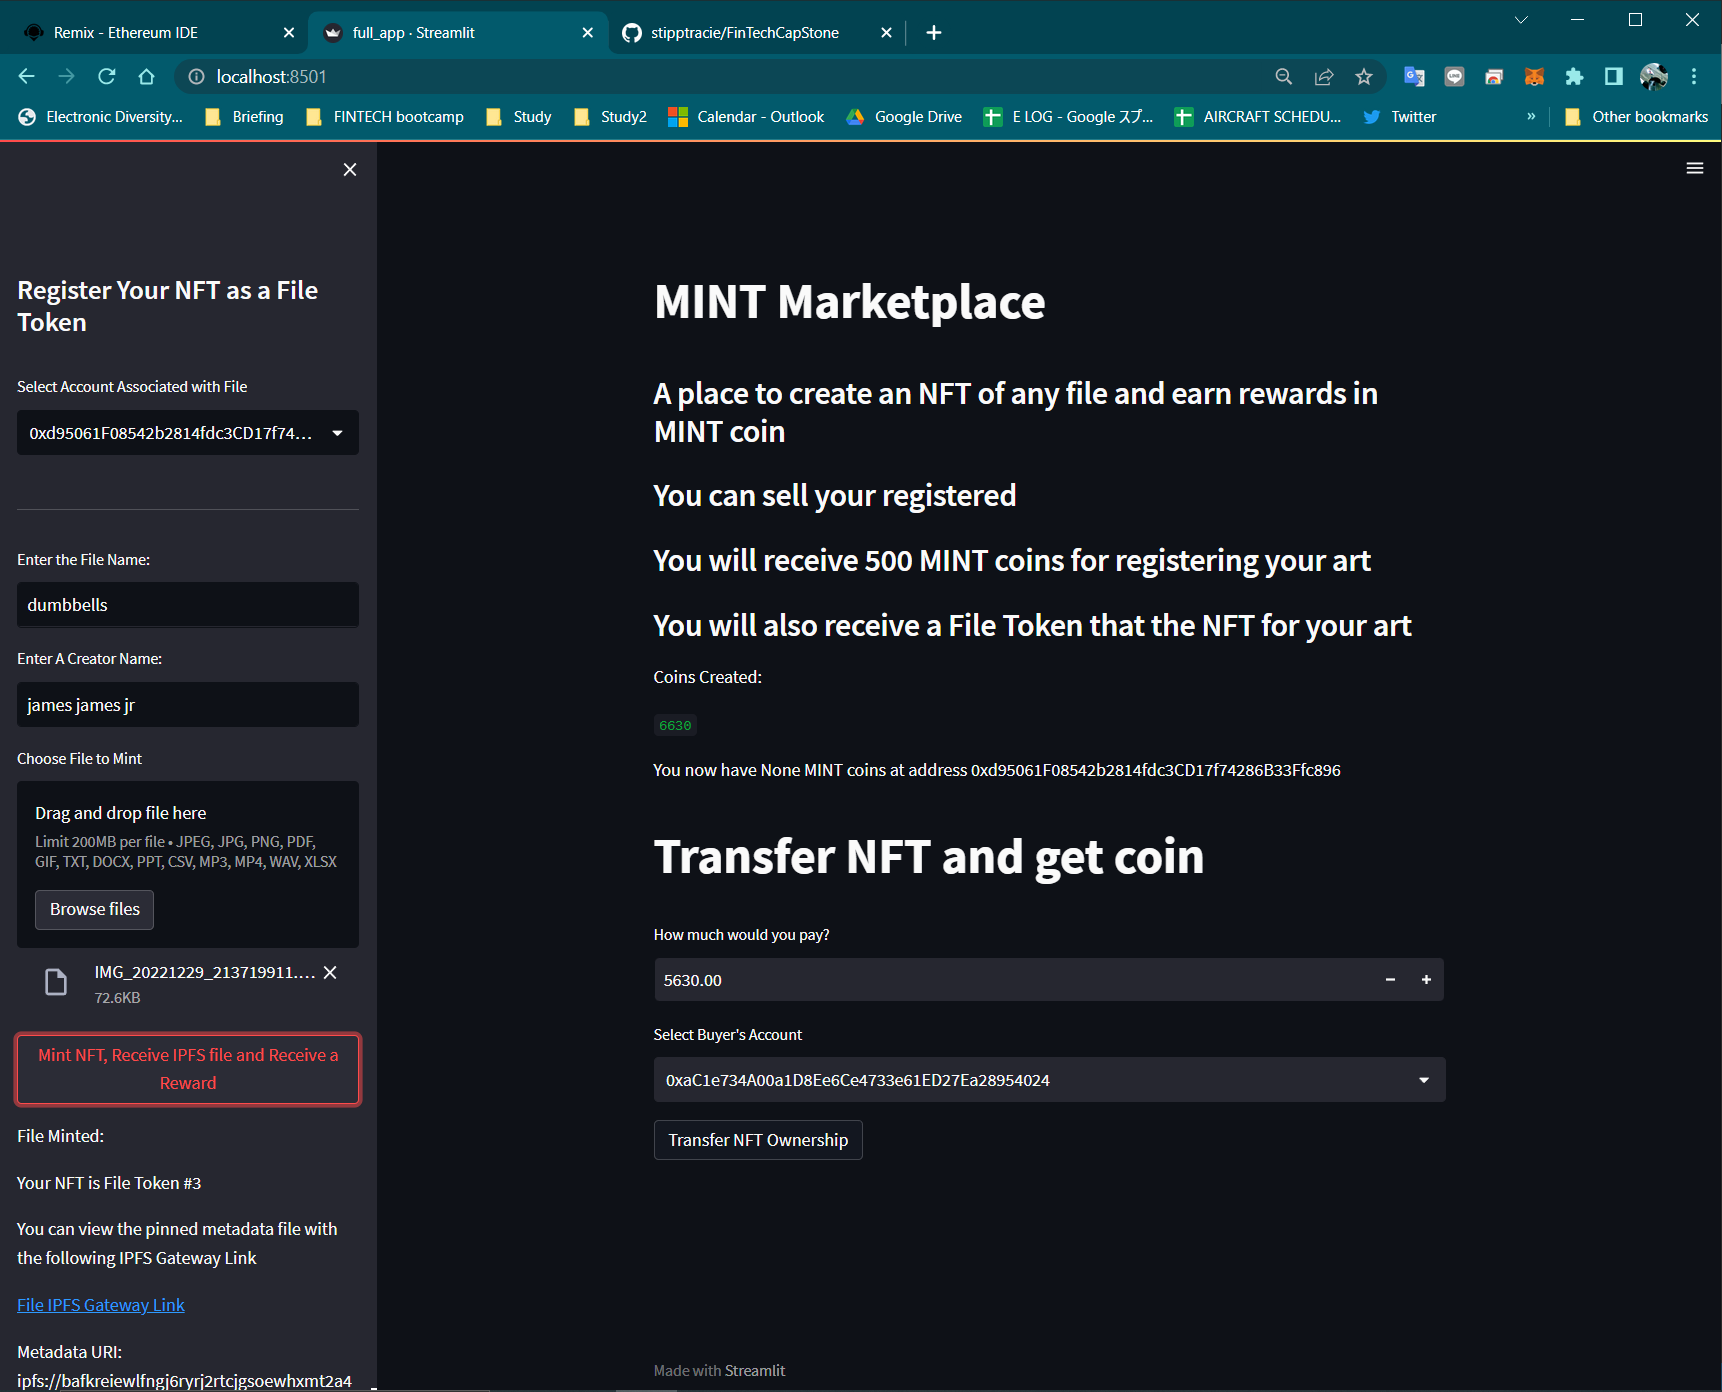
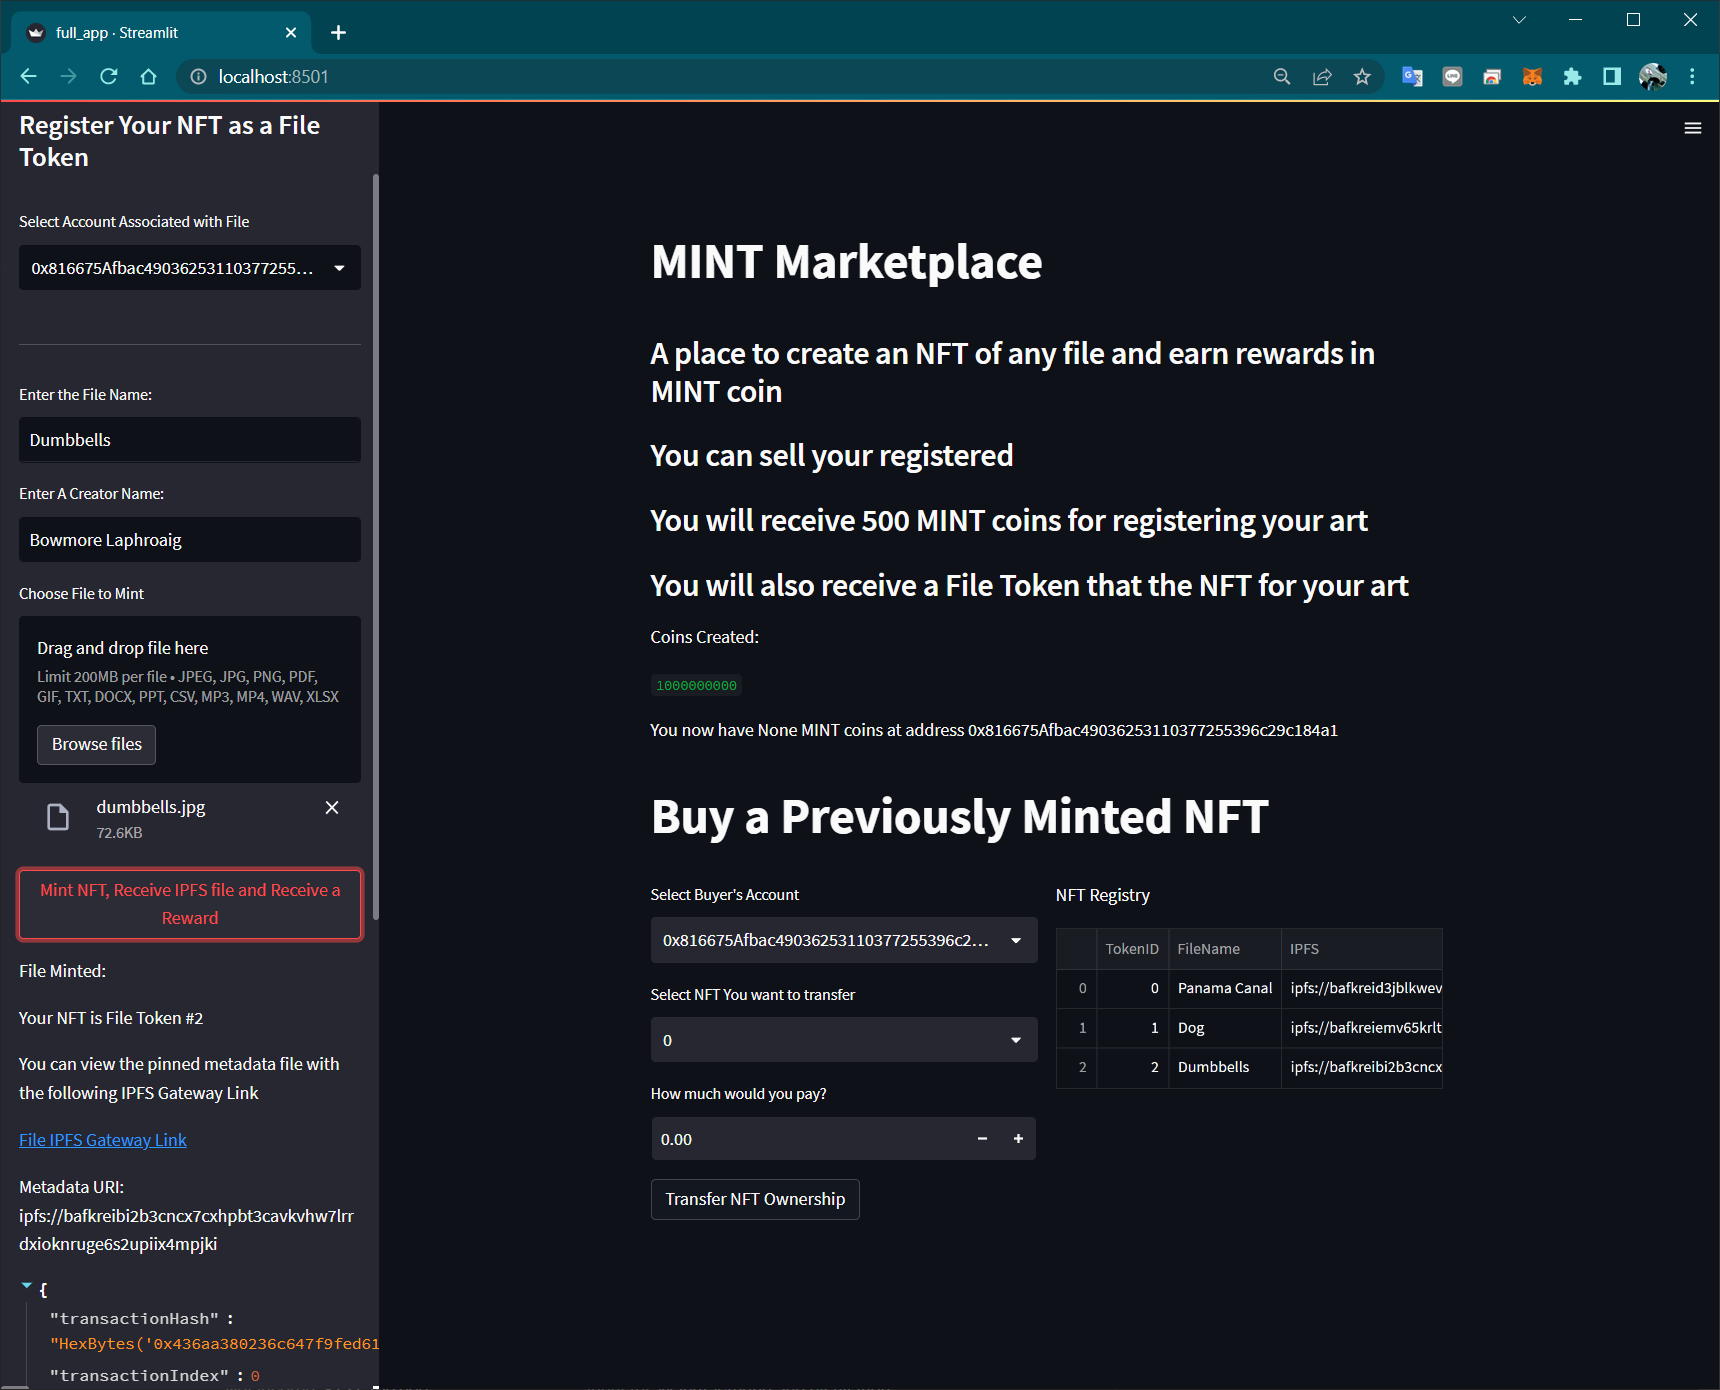
updated images to current UI

diff --git a/README.md b/README.md
@@ -93,7 +93,13 @@ To run the application, clone the code from this GitHub repository.
 ### IPFS/Pinata
 [![StreamlitApp](https://img.youtube.com/vi/RsCRE-JZNAk/0.jpg)](https://www.youtube.com/watch?v=RsCRE-JZNAk)
 >
-MetaMask verification of ERC20 "MINT" Token</br>
+### NFT Minting
+![Minting](screenshot/nft_minting.PNG)
+>
+### NFT Transferring with ICO
+![Transfer](screenshot/nft_transfer.PNG)
+>
+### MetaMask verification of ERC20 "MINT" Token</br>
 [![StreamlitApp](https://img.youtube.com/vi/ovsfEm_JYNc/0.jpg)](https://www.youtube.com/watch?v=ovsfEm_JYNc)
 >
 
